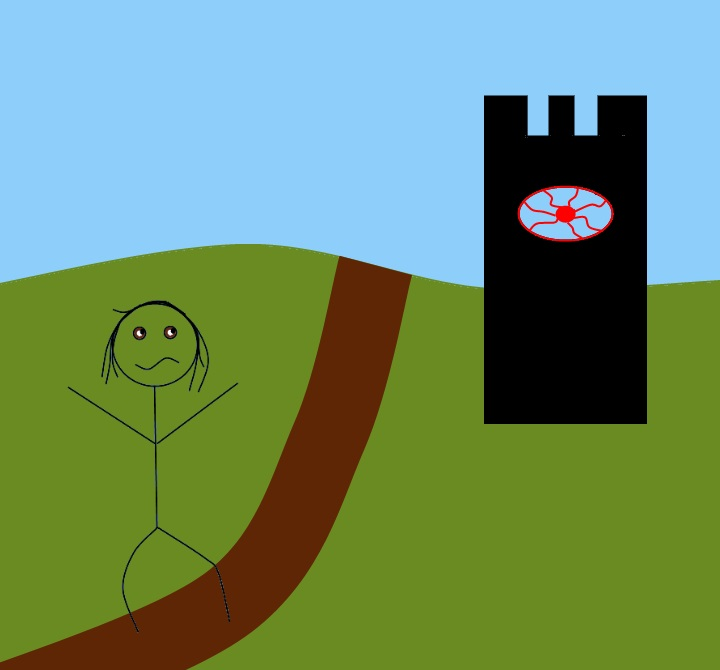
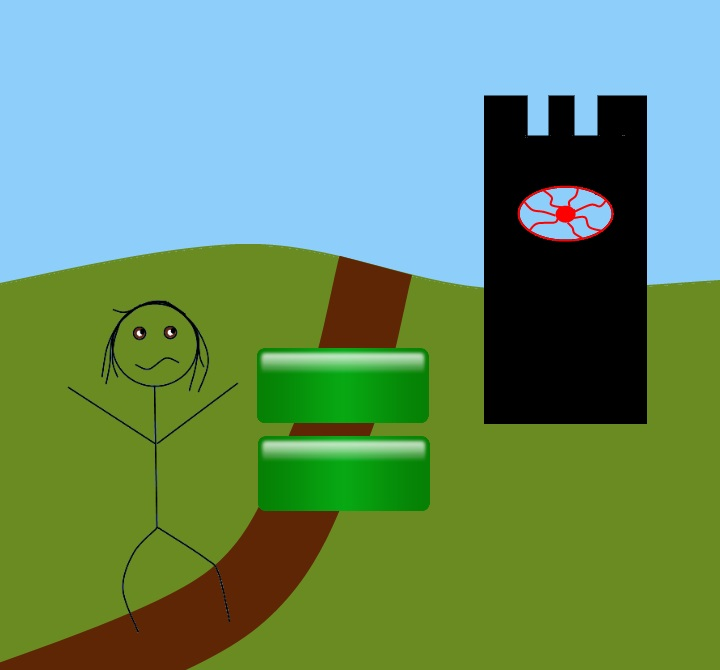
Added Play button to title screen

Changed region(s): [[0.3361, 0.5075, 0.6111, 0.7761]]

diff --git a/SourceCode/main.py b/SourceCode/main.py
@@ -13,26 +13,48 @@ import gameStats
 from pygame.locals import * # for getting mouse pos
     
 def playTitle():
+    title1 = defaultFont.render('CLFS', 0, (0,0,0))
+    title2 = defaultFont.render('Tower Defence', 0, (0,0,0))
+    playText = defaultFont.render('Play', 0, (0,0,0))
+    exitText = defaultFont.render('Exit', 0, (0,0,0))
+    
+    titleImage = pygame.image.load('images/title_image.jpg')
+    titleImage_position = titleImage.get_rect()
+    
     screen.blit(titleImage, titleImage_position)
     screen.blit(title1, (155,50))
     screen.blit(title2, (50,100))
+    screen.blit(playText, (285,363))
+    screen.blit(exitText, (285,451))
 
     for event in pygame.event.get():
         if event.type == pygame.QUIT:
             pygame.quit()
         elif event.type == MOUSEBUTTONDOWN:
-            print(pygame.mouse.get_pos())
-        
+            mousePos = pygame.mouse.get_pos()
+            if (mousePos[0] >= 257 and  mousePos[0] <= 428) and (mousePos[1] >= 348 and  mousePos[1] <= 421):
+                gameStats.setLevel('MapSelect')
+            if (mousePos[0] >= 257 and  mousePos[0] <= 428) and (mousePos[1] >= 436 and  mousePos[1] <= 509):
+                pygame.quit()
+            
     pygame.display.flip()
 
-def playLevel1():
-    screen.blit(titleImage, titleImage_position)
+def playMapSelect():
     background = pygame.Surface(screen.get_size())
     background.fill((140,206,250))
     screen.blit(background, (0,0))
-    pygame.display.flip()
+
+    for event in pygame.event.get():
+        if event.type == pygame.QUIT:
+            pygame.quit()
+        elif event.type == MOUSEBUTTONDOWN:
+            mousePos = pygame.mouse.get_pos()
     
-levelSelect = {'Title':playTitle, 'Level1':playLevel1}
+    pygame.display.flip()
+
+#MAIN 
+    
+levelSelect = {'Title':playTitle, 'MapSelect':playMapSelect}
 
 gameStats = gameStats.GameStats()
 gameStats.setLevel('Title')
@@ -40,13 +62,8 @@ gameStats.setLevel('Title')
 pygame.init()
 screen = pygame.display.set_mode((720,670))
 pygame.display.set_caption('CLFS Tower Defence')
-
-titleImage = pygame.image.load('images/title_image.jpg')
-titleImage_position = titleImage.get_rect()
-
 defaultFont = pygame.font.Font('fonts/miriamfixed.ttf', 48 )
-title1 = defaultFont.render('CLFS', 0, (0,0,0))
-title2 = defaultFont.render('Tower Defence', 0, (0,0,0))
+
 
 # MAIN GAME LOOP
 while gameStats.getLevel()!=None:
